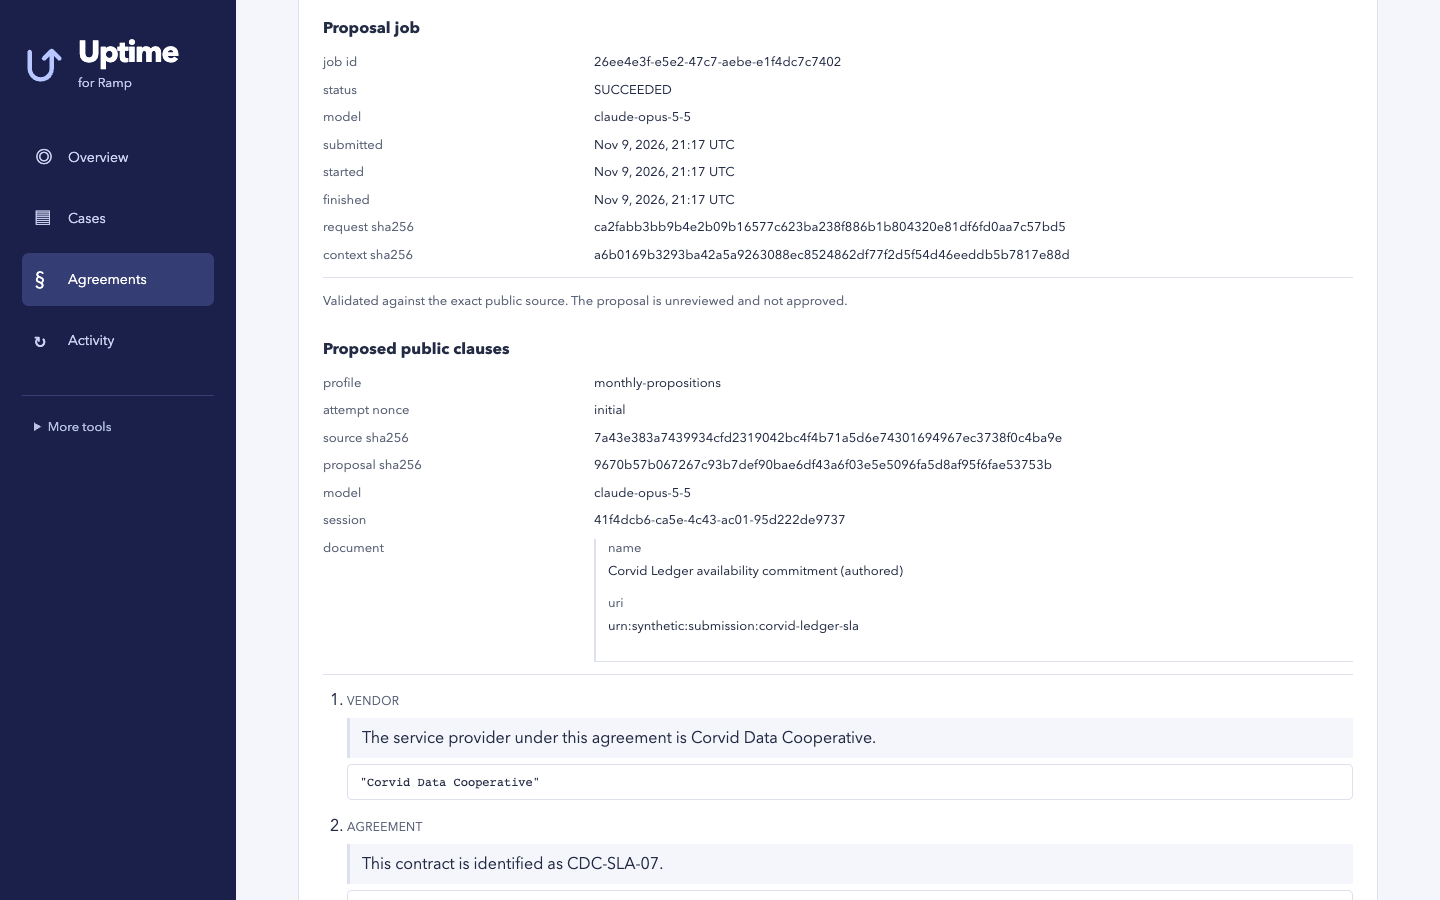
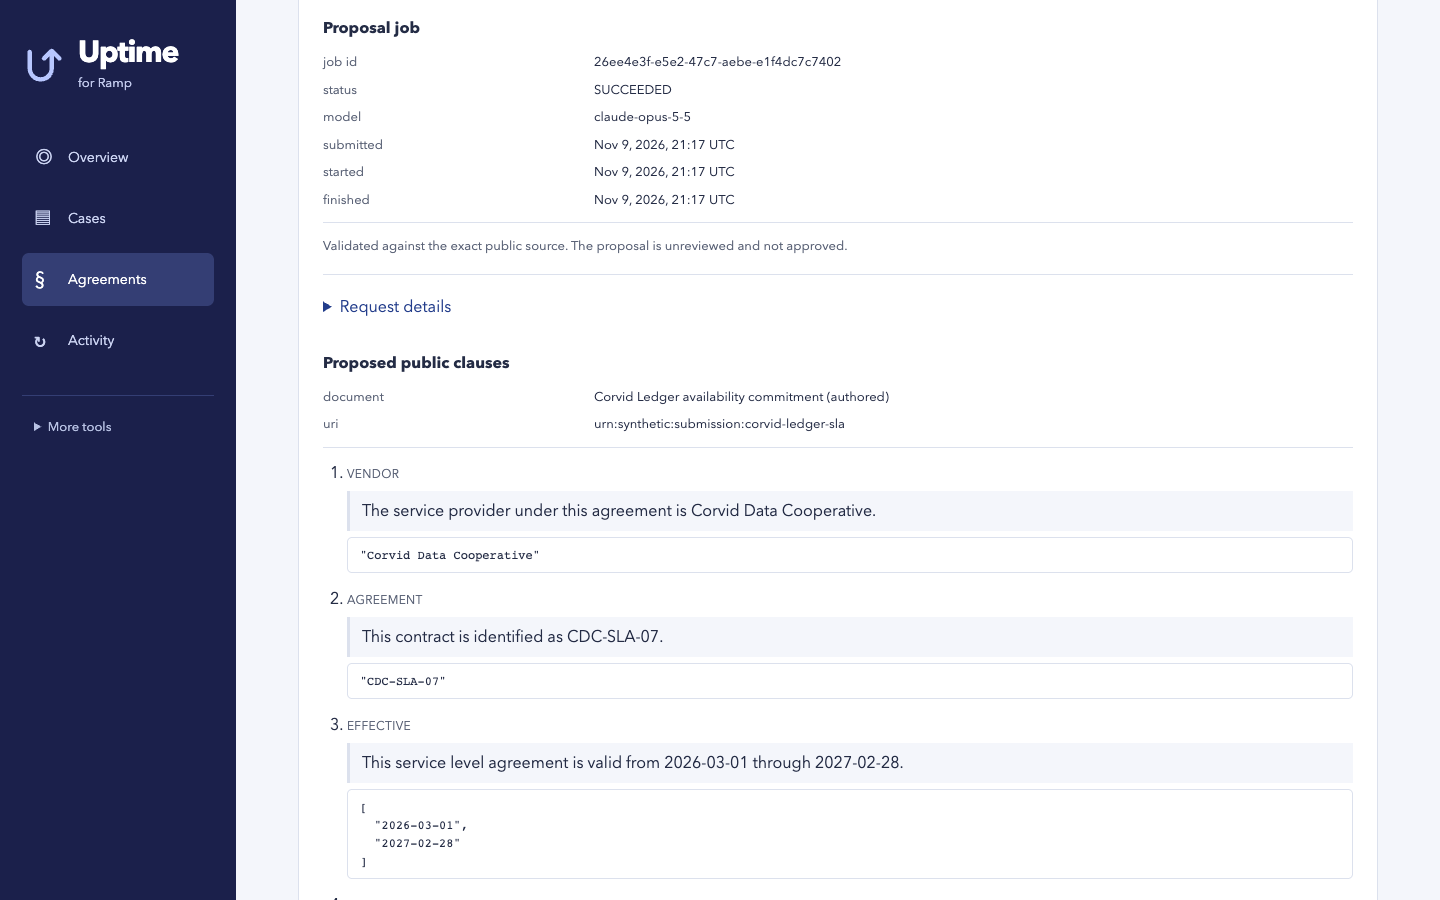
docs(submission-ui): contract job card follow-up and its screenshot

diff --git a/docs/v4/submission/ui.md b/docs/v4/submission/ui.md
@@ -114,6 +114,10 @@ The branch was merged with the integration commit `c756853` (roles 1 and 3) and 
   - Source: a scratch copy of role 1's preserved workspace, served on 8847 and deleted afterwards. Signed in as `role1-operator`; the access read used the authored public fixture and attempt `initial`, and no new job was submitted.
   - The job card shows job `26ee4e3f…`, status SUCCEEDED, model `claude-opus-5-5`, and submitted, started and finished at Nov 9, 2026, 21:17 UTC. Every clause quote is shown untrimmed beside its typed value, and the vendor card shows SHADOW.
   - Review-history times are now formatted dates.
+  - Coordinator follow-up: the request, context, source and proposal digests, profile, attempt and session now sit in one closed **Request details** disclosure on the card.
+    - Still in view: job id, status, model, the three times, "Validated against the exact public source. The proposal is unreviewed and not approved.", the document name and URI exactly as sent (including "(authored)"), and the clauses.
+    - At 1440×900 the first viewport now shows three clauses, each with its exact quote and typed value, and no digests; it used to show two clauses under five digest rows.
+    - One click shows all four digests and the session. The denial candidate's request reference moved behind the same kind of disclosure; the cited reply text and the review wording are unchanged.
   - Checked at 1440×900. [Screenshot](../evidence/submission-ui/after-contract-job-1440.png).
 - **Recorded denial reading (job `29f371d0`).**
   - Source: a scratch copy of agent3's preserved workspace, served at its recorded origin 8823 from this branch with role 2 `c612114` merged. It was stopped and deleted afterwards, and the preserved database hash (`1a035ab2…`) is unchanged.

diff --git a/docs/v4/TEST-CHANGES-submission-ui-20261109.md b/docs/v4/TEST-CHANGES-submission-ui-20261109.md
@@ -39,5 +39,7 @@ The helper `live_workspace` in `tests/test_finance_browser_90.py` gained `**prep
 - `web/workspace_ui.test.cjs`: `the recovery card labels the claim’s own stage and shows the credit’s latest recorded stage beside it` (`61a6fb0`)
 - `tests/test_interpretation_uncertain_candidate_r4.py`: `test_uncertain_request_state_and_reason_sit_beside_its_validated_candidate` and `test_a_cleanly_completed_request_keeps_the_ordinary_candidate_label` (`f58e964`)
 - `web/workspace_ui.test.cjs`: `a stop for a person shows the server’s reason and detail, and the recovery panel links to the claim’s case`
+- `tests/test_contract_job_card_r4.py::test_job_card_keeps_digests_one_click_away_and_clauses_in_view`
+- `tests/test_interpretation_uncertain_candidate_r4.py::test_candidate_request_digest_sits_in_a_closed_request_details_disclosure`
 - `web/model_job_display.test.cjs`: `the denial job receipt shows only reported fields: return code, tool events, empty inventories, cost and session`
 - `web/model_job_display.test.cjs`: `a denial model job shows the model the server reports and its latest time, in UTC, and nothing it does not report` (`6374478`)
